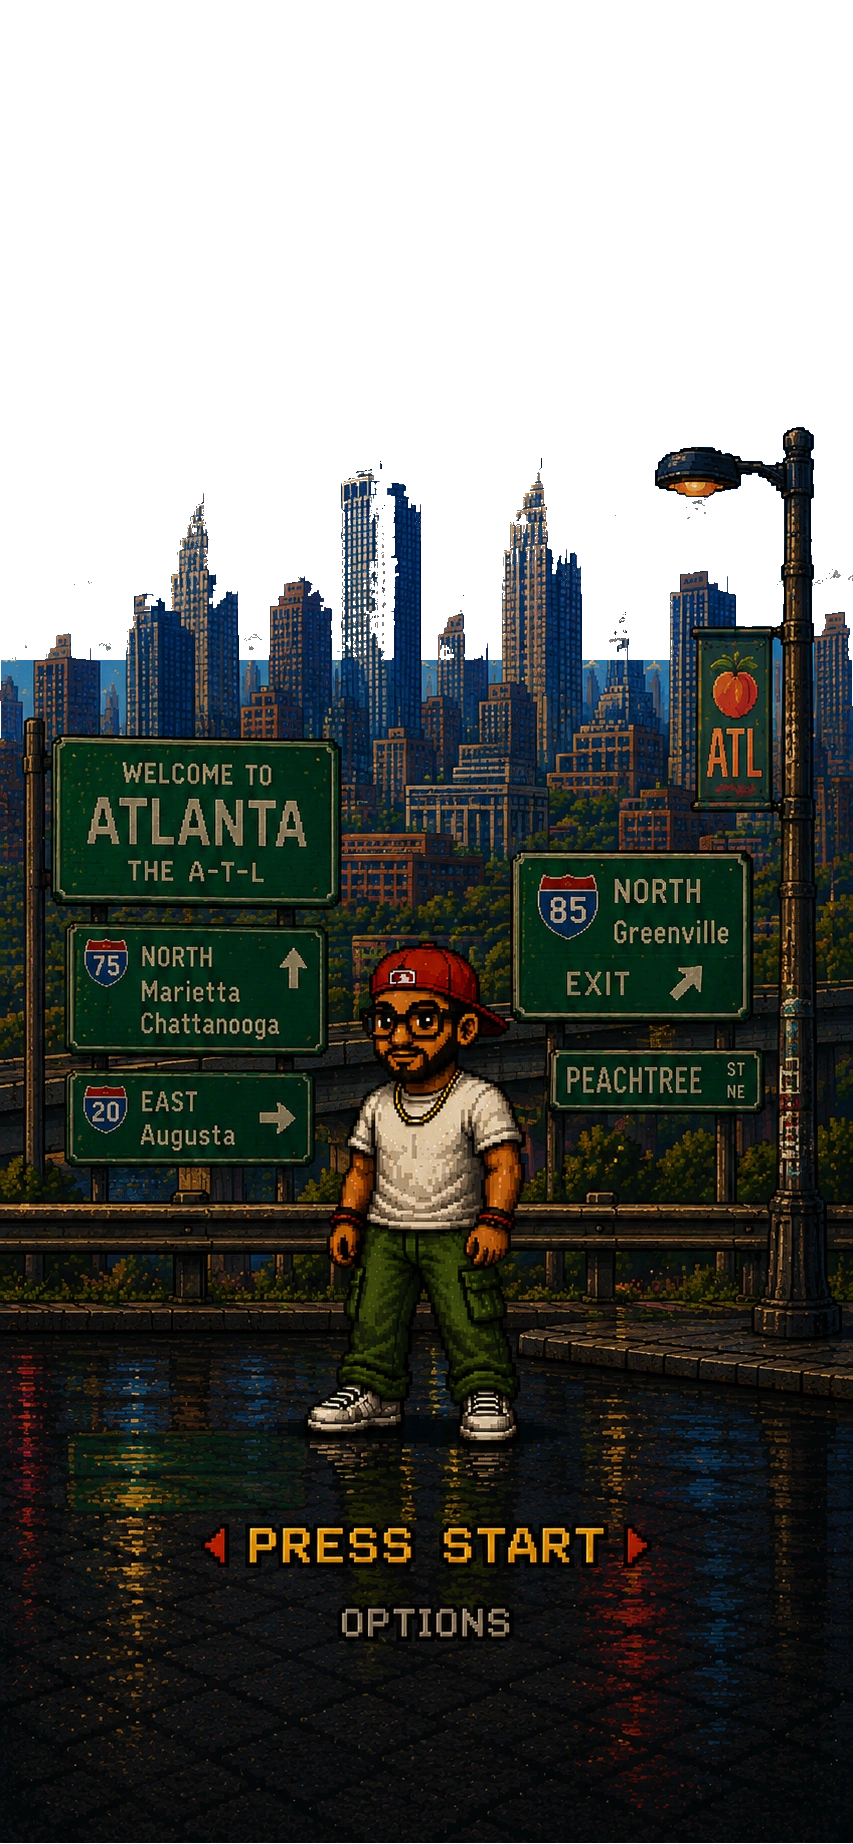
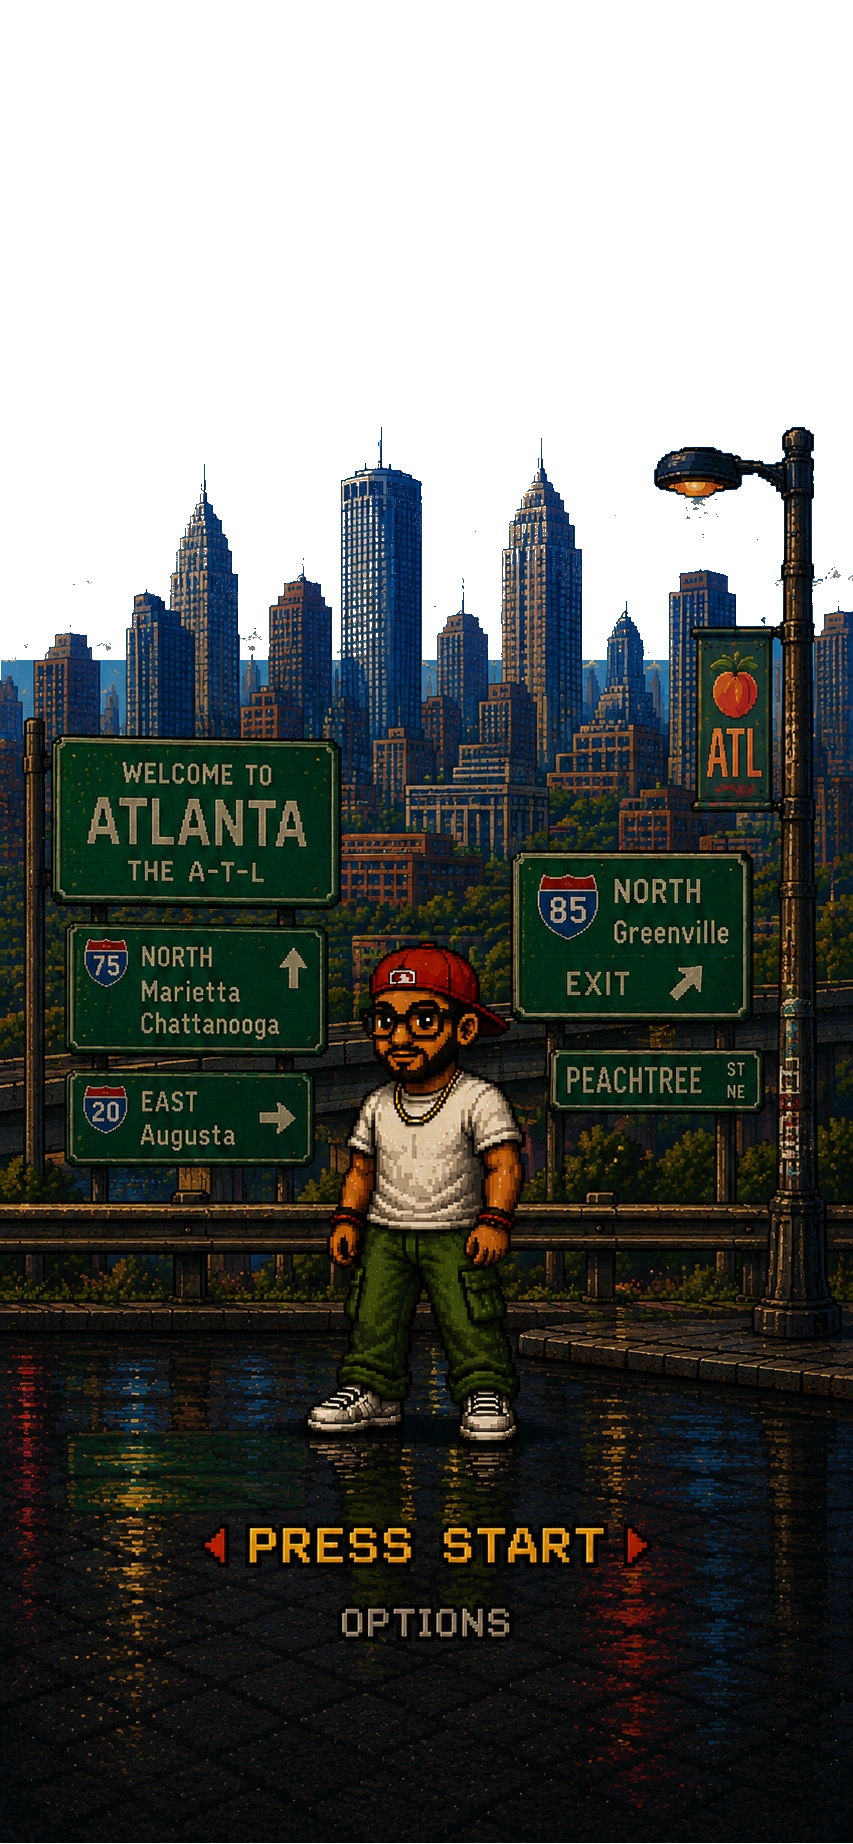
The sky flood was running down the buildings' shadowed faces
Client, with five consecutive frames and the diagnosis that cracked it:
"the dark side of the building on the right side, that long shadow strip
going down the building, is treating that like it's something separate."

That is exactly what was happening, and it is why two passes of sealing
did not fix this. The seal finds sky by flooding BLUE down from the top
of the plate and treats whatever is left in the skyline as building. A
shadowed building face is painted DARK BLUE — it passes the blue test,
and it meets open sky at the roofline, so the flood poured in at the
roof and ran the full height of the strip, marking it sky. It was never
sealed, so a cloud behind the tower stayed visible the whole way down:
in front of the lit face, gone behind it, back again down the shadow.
Threading, as he called it.

Measured on the tower band: of 173,056 px the flood called sky, 30,494
(17.6%) were darker than 0.40, while real sky sits at 0.596 (25th pct)
to 0.694 (95th). The two populations do not overlap — 10th pct 0.333,
25th pct 0.596 — so a brightness floor of 0.50 lands in the empty gap
and cannot cut into real sky.

With the floor, the same scan finds 13,501 px of uncovered building
where it previously found 6,859 — nearly double, and the largest is a
4,259 px vertical strip 195 rows tall at x366-421, which is the shadow
he pointed at. Re-run from the ORIGINAL card out of git so the fill is
computed once against clean data rather than stacked on the last pass.
[…]

diff --git a/tools/seal_skyline.py b/tools/seal_skyline.py
@@ -82,7 +82,26 @@ def main():
     mx = comp.max(axis=2).astype(float) / 255
     mn = comp.min(axis=2).astype(float) / 255
     sat = np.where(mx > 0, (mx - mn) / np.maximum(mx, 1e-6), 0)
-    blue = (bl > r + 12) & (bl > g + 4) & (mx > 0.25)
+    # ⚠ AND THE FLOOD MUST NOT RUN DOWN A BUILDING'S SHADOWED FACE.
+    #
+    # This is the bug two passes of sealing did not fix, and the client named
+    # it exactly: "the dark side of the building on the right side, that long
+    # shadow strip going down the building, is treating that like it's
+    # something separate."
+    #
+    # A shadowed face is painted DARK BLUE. It passes the blue test, and it
+    # meets open sky at the roofline — so the flood pours in at the roof and
+    # runs the whole height of the strip, marking it sky. It never got
+    # sealed, so a cloud behind the tower stayed visible all the way down it:
+    # in front of the lit face, gone behind it, back again down the shadow.
+    #
+    # Measured on the tower band: of 173,056 px the flood called sky, 30,494
+    # (17.6%) were darker than 0.40, while real sky sits at 0.596 (25th pct)
+    # to 0.694 (95th). The two populations do not overlap — the 10th
+    # percentile is 0.333 and the 25th is 0.596 — so a floor of 0.50 lands in
+    # the empty gap between them and cannot cut into real sky.
+    SKY_MIN_V = 0.50
+    blue = (bl > r + 12) & (bl > g + 4) & (mx > SKY_MIN_V)
     cloudish = (mx > 0.62) & (sat < 0.30)
     core = ndimage.binary_erosion(blue & ~cloudish, iterations=1)
     lab, _ = ndimage.label(core)
